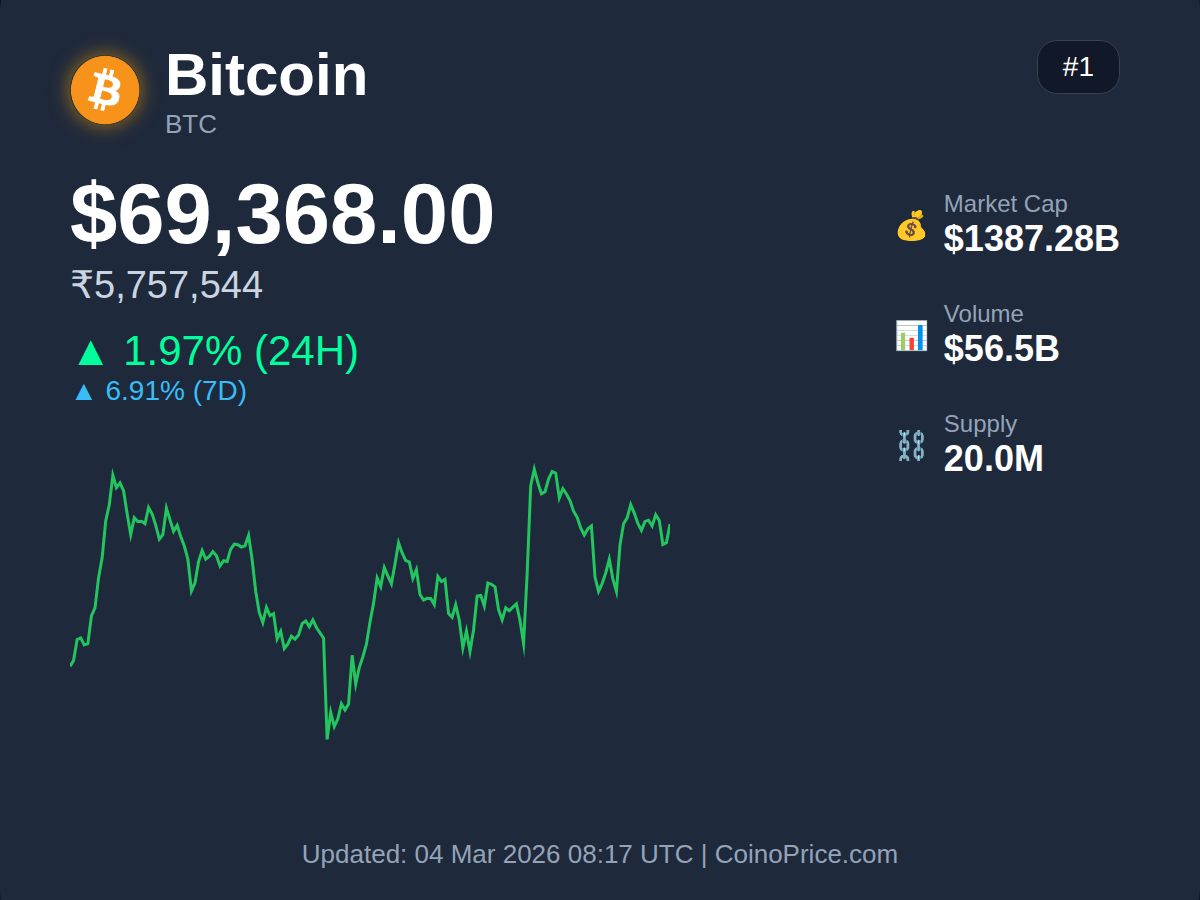
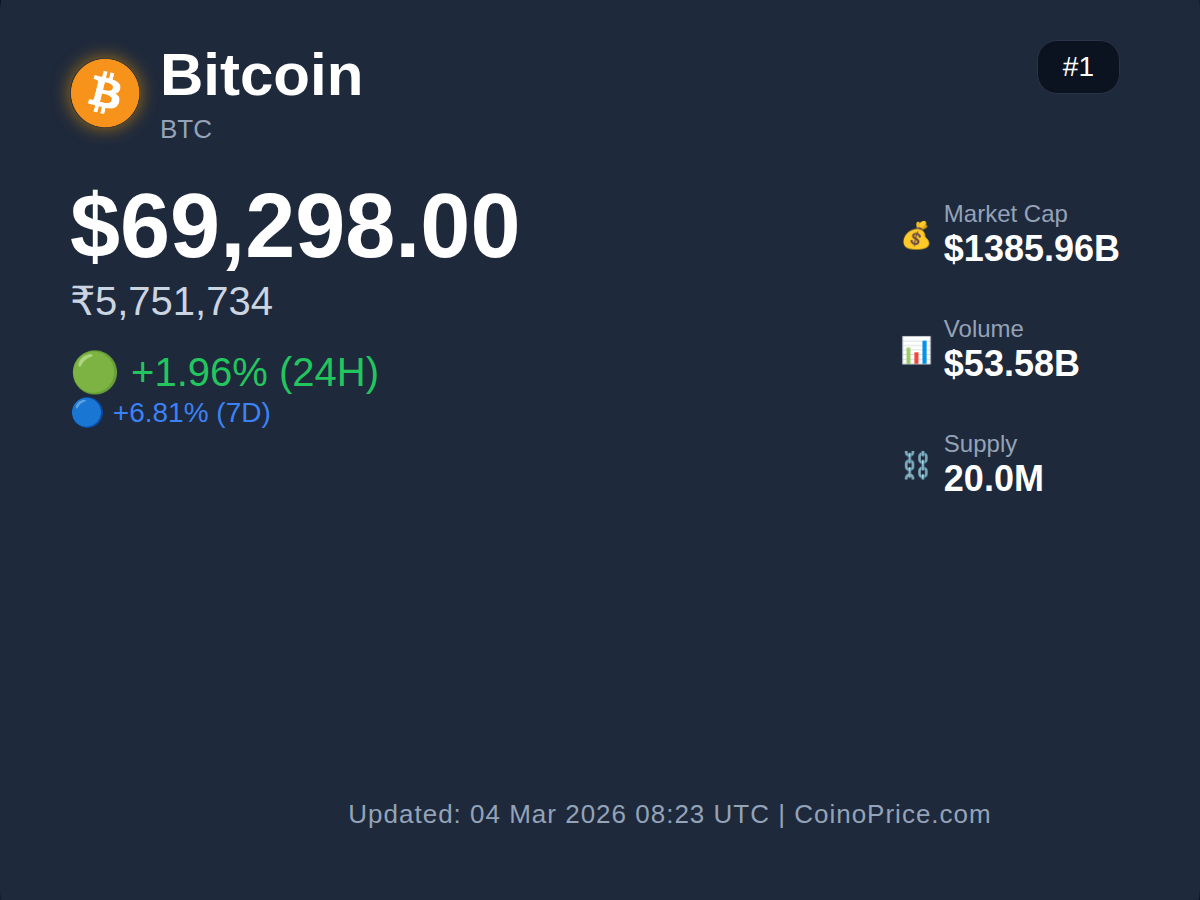
Auto crypto post update

diff --git a/temp.html b/temp.html
@@ -3,14 +3,13 @@
 <head>
 
 <meta charset="UTF-8">
-
 <script src="https://cdn.jsdelivr.net/npm/chart.js"></script>
 
 <style>
 
 body{
 margin:0;
-font-family:Arial;
+font-family:Arial, Helvetica, sans-serif;
 background:linear-gradient(135deg,#0f172a,#1e293b,#0f172a);
 display:flex;
 justify-content:center;
@@ -29,19 +28,19 @@ position:relative;
 box-shadow:0 0 40px rgba(0,0,0,0.5);
 }
 
-/* header */
+/* HEADER */
 
 .coin-header{
 display:flex;
 align-items:center;
-gap:25px;
+gap:20px;
 }
 
 .coin-logo{
 width:70px;
 height:70px;
 border-radius:50%;
-box-shadow:0 0 20px rgba(255,165,0,0.6);
+box-shadow:0 0 18px rgba(255,165,0,0.6);
 }
 
 .coin{
@@ -52,48 +51,49 @@ font-weight:700;
 .symbol{
 font-size:26px;
 color:#94a3b8;
+margin-top:5px;
 }
 
-/* rank badge */
+/* RANK BADGE */
 
 .rank{
 position:absolute;
 top:70px;
 right:80px;
-background:#111827;
-border:1px solid #374151;
+background:#0b1220;
+border:1px solid #2a3347;
 padding:10px 25px;
 border-radius:20px;
 font-size:28px;
 }
 
-/* price */
+/* PRICE */
 
 .price{
-font-size:85px;
-margin-top:25px;
+font-size:90px;
+margin-top:30px;
 font-weight:700;
 }
 
 .price_inr{
-font-size:38px;
+font-size:40px;
 color:#cbd5e1;
 }
 
-/* changes */
+/* CHANGE INDICATORS */
 
 .change{
-font-size:42px;
-margin-top:20px;
-color:#00ff9c;
+margin-top:25px;
+font-size:40px;
+color:#22c55e;
 }
 
 .change7{
 font-size:28px;
-color:#38bdf8;
+color:#3b82f6;
 }
 
-/* chart */
+/* CHART */
 
 .chart{
 margin-top:40px;
@@ -104,21 +104,19 @@ width:600px;
 
 .stats{
 position:absolute;
-top:220px;
+top:230px;
 right:80px;
-text-align:left;
-font-size:34px;
 }
 
 .stat{
-margin-bottom:40px;
+margin-bottom:45px;
 display:flex;
 align-items:center;
-gap:15px;
+gap:12px;
 }
 
 .stat-icon{
-font-size:28px;
+font-size:26px;
 }
 
 .stat-title{
@@ -131,16 +129,16 @@ font-size:36px;
 font-weight:600;
 }
 
-/* footer */
+/* FOOTER */
 
 .footer{
 position:absolute;
-bottom:60px;
-left:0;
+bottom:100px;
 width:100%;
 text-align:center;
 font-size:26px;
 color:#94a3b8;
+letter-spacing:1px;
 }
 
 </style>
@@ -149,6 +147,8 @@ color:#94a3b8;
 <body>
 
 <div class="card">
+
+<!-- HEADER -->
 
 <div class="coin-header">
 
@@ -163,17 +163,23 @@ color:#94a3b8;
 
 <div class="rank">#1</div>
 
-<div class="price">$69,368.00</div>
-<div class="price_inr">₹5,757,544</div>
+<!-- PRICE -->
 
-<div class="change">▲ 1.97% (24H)</div>
-<div class="change7">▲ 6.91% (7D)</div>
+<div class="price">$69,298.00</div>
+<div class="price_inr">₹5,751,734</div>
+
+<!-- CHANGE -->
+
+<div class="change">🟢 +1.96% (24H)</div>
+<div class="change7">🔵 +6.81% (7D)</div>
+
+<!-- CHART -->
 
 <div class="chart">
 <canvas id="spark"></canvas>
 </div>
 
-<!-- RIGHT COLUMN -->
+<!-- RIGHT PANEL -->
 
 <div class="stats">
 
@@ -181,7 +187,7 @@ color:#94a3b8;
 <div class="stat-icon">💰</div>
 <div>
 <div class="stat-title">Market Cap</div>
-<div class="stat-value">$1387.28B</div>
+<div class="stat-value">$1385.96B</div>
 </div>
 </div>
 
@@ -189,7 +195,7 @@ color:#94a3b8;
 <div class="stat-icon">📊</div>
 <div>
 <div class="stat-title">Volume</div>
-<div class="stat-value">$56.5B</div>
+<div class="stat-value">$53.58B</div>
 </div>
 </div>
 
@@ -203,8 +209,10 @@ color:#94a3b8;
 
 </div>
 
+<!-- FOOTER -->
+
 <div class="footer">
-Updated: 04 Mar 2026 08:17 UTC | CoinoPrice.com
+Updated: 04 Mar 2026 08:23 UTC | CoinoPrice.com
 </div>
 
 </div>
@@ -233,7 +241,6 @@ plugins:{legend:{display:false}},
 scales:{
 x:{display:false},
 y:{display:false}
-}
 }
 
 });
